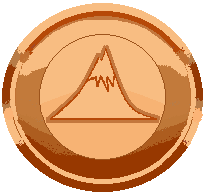
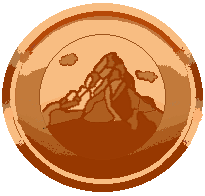
Updated graphics for some medals. Fixed timed workout audio issue. Finished foundational workout summary animation. Fixed auto scrolling on medals at home

Changed region(s): [[0.2049, 0.2143, 0.8195, 0.8265], [0.2927, 0.2755, 0.3805, 0.3367]]

diff --git a/components/WorkoutSummary.tsx b/components/WorkoutSummary.tsx
@@ -36,6 +36,7 @@ const WorkoutSummary = () => {
 
   const [progressMenu, setProgressMenu] = useState<boolean>(true)
   const [singeAnimation, setSingeAnimation] = useState<boolean>(true);
+  const [progressBarColor, setProgressBarColor] = useState<string>('yellow')
 
   const [updated, setUpdated] = useState<boolean>(false);
 
@@ -81,11 +82,10 @@ const WorkoutSummary = () => {
       setChallengeValues(await getChallengeValues(db, guidedWorkoutChallenges))
     }
     grabChallengeInfo();
-
   }, [])
 
   const progressAnimations = route.params.startMetrics.map((item, index) => {
-      const bwidth = useSharedValue((BAR_WIDTH * (item.value / item.threshold)));
+      const bwidth = useSharedValue(0);
       const animation = useAnimatedStyle(() => {
           return {
               // moves to be made
@@ -105,13 +105,14 @@ const WorkoutSummary = () => {
   }, [challengeValues])
 
   function startImageAnimation() {
-  let index = 0;
-  return setInterval(() => {
-    setProgressImage(progressImgs[index]);
-    index = Math.floor(Math.random() * ((progressImgs.length - 1) - 1))
-    if (index >= progressImgs.length) index = 0;
-  }, 50);
-}
+    let index = 0;
+    return setInterval(() => {
+      setProgressImage(progressImgs[index]);
+      index = Math.floor(Math.random() * ((progressImgs.length - 1) - 1))
+      if (index >= progressImgs.length) index = 0;
+    }, 100);
+  }
+
 
 const onSingeEnd = React.useCallback(() => {
     setSingeAnimation(false);
@@ -119,13 +120,13 @@ const onSingeEnd = React.useCallback(() => {
 
 
   function updateAnimation(index: number) {
-    let multiplier = challengeValues[index].value / challengeValues[index].threshold
-    if (challengeValues[index].value / challengeValues[index].threshold >= 1)
-      multiplier = 1;
+    let multiplier =  (challengeValues[index].value - startMetrics[index].value) / challengeValues[index].threshold
+    if (challengeValues[index].value / challengeValues[index].threshold > 1)
+      multiplier = 0;
     const p_animation = startImageAnimation();
     'worklet';
     // start all progress animations
-    progressAnimations[index].width.value = withTiming((SCREEN_WIDTH * .25) * multiplier, { duration: 3000, easing: Easing.inOut(Easing.ease) }, (finished) => {
+    progressAnimations[index].width.value = withTiming(BAR_WIDTH * multiplier, { duration: 3000, easing: Easing.inOut(Easing.ease) }, (finished) => {
       if (finished) {
         clearInterval(p_animation);
         scheduleOnRN(onSingeEnd)
@@ -228,11 +229,13 @@ const onSingeEnd = React.useCallback(() => {
                     <View key={index} style={{width: startMetrics.find(val => val.name == item.name) && startMetrics[startMetrics.findIndex(val => val.name == item.name)].value != item.value ? '25%' : 0}}>
                       {startMetrics.find(val => val.name == item.name) && startMetrics[startMetrics.findIndex(val => val.name == item.name)].value != item.value && 
                         <View style={{alignItems: 'center', borderColor: 'white', borderWidth: 3, borderRadius: 10, width: '100%', justifyContent: 'space-evenly', height: SCREEN_HEIGHT / 3}}>
-                          <Image style={{height: SCREEN_HEIGHT * .07, width: SCREEN_HEIGHT * .1, resizeMode: 'contain'}} source={item.tier != undefined ? item.tier == 0 ? require('../assets/locked.png') : medalImages[medalImages.findIndex(m => m.name == JSON.parse(item.name)[0])].items[item.tier] || require('../assets/locked.png') : item.threshold > item.value ? require('../assets/locked.png') : medalImages[medalImages.findIndex(m => m.name == item.name)].items[0] || require('../assets/locked.png')}/>
-                          <Text style={[styles.itemText, {textAlign: 'center', height: '30%'}]}>{item.tier != undefined ? item.tier == 0 ? '???' : JSON.parse(item.name)[item.tier] : item.value < item.threshold ? '???' : item.name}</Text>
+                          <Image style={{height: SCREEN_HEIGHT * .07, width: SCREEN_HEIGHT * .1, resizeMode: 'contain'}} source={item.tier != undefined ? item.tier == 0 ? require('../assets/locked.png') : medalImages[medalImages.findIndex(m => m.name == JSON.parse(item.name)[0])].items[item.tier - 1] || require('../assets/locked.png') : item.threshold > item.value ? require('../assets/locked.png') : medalImages[medalImages.findIndex(m => m.name == item.name)].items[0] || require('../assets/locked.png')}/>
+                          <Text style={[styles.itemText, {textAlign: 'center', height: '30%'}]}>{item.tier != undefined ? item.tier == 0 ? '???' : JSON.parse(item.name)[item.tier - 1] : item.value < item.threshold ? '???' : item.name}</Text>
                           <Text style={[styles.headText, {fontSize: 18, padding: 1}]}>+{item.value - startMetrics[startMetrics.findIndex(val => val.name == item.name)].value}</Text>
-                          <View style={{width: SCREEN_WIDTH * .2, backgroundColor: 'white', height: SCREEN_HEIGHT * .01, borderWidth: 1, borderColor: 'black'}}>
-                            <Animated.View style={[progressAnimations[index].animation, {backgroundColor: 'red', height: '100%', position: 'absolute', alignItems: 'flex-end'}]}>
+                          <Text style={[styles.headText, {fontSize: 12, padding: 1}]}>{Math.floor(1000 * (item.value / item.threshold))/10}%</Text>
+                          <View style={{width: SCREEN_WIDTH * .2, backgroundColor: 'white', height: SCREEN_HEIGHT * .01, borderWidth: 1, borderColor: 'black', flexDirection: 'row'}}>
+                            <View style={{backgroundColor: 'red', height: '100%', width: item.value >= item.threshold ? '100%' : (SCREEN_WIDTH * .2) * (startMetrics[startMetrics.findIndex(val => val.name == item.name)].value / item.threshold)}}/>
+                            <Animated.View style={[progressAnimations[index].animation, {backgroundColor: progressBarColor, height: '100%', alignItems: 'flex-end'}]}>
                               <Image source={progressImage} style={{height: '100%', width: BAR_WIDTH * .02, resizeMode: 'stretch', opacity: singeAnimation ? 1 : 0}}/>
                             </Animated.View>
                           </View>
@@ -242,8 +245,8 @@ const onSingeEnd = React.useCallback(() => {
                   ))}
                 </View>
               </ScrollView>
-              <View style={{width: SCREEN_WIDTH * .9, alignItems: 'center', alignSelf: 'center'}}>
-                 <TouchableOpacity style={{width: '100%'}} onPress={() => {
+              <View style={{width: '100%', alignItems: 'center', alignSelf: 'center'}}>
+                 <TouchableOpacity style={{width: '100%', alignSelf: 'center'}} onPress={() => {
                   setProgressMenu(false);
                  }}>
                   <LinearGradient colors={['red', '#390842']} style={[styles.controlButton, {backgroundColor: "red"}]}>

diff --git a/components/TimedWorkoutExecution.tsx b/components/TimedWorkoutExecution.tsx
@@ -11,7 +11,7 @@ import { getDBConnection, addRecentWorkout } from '../utilities/DefaultInfo';
 import LinearGradient from 'react-native-linear-gradient';
 import { useKeepAwake, deactivateKeepAwake } from '@sayem314/react-native-keep-awake';
 import Sound from 'react-native-sound';
-import { loadSingleBellSound, releaseBellSounds } from '../audiocontrol';
+import { loadBellSounds, releaseBellSounds } from '../audiocontrol';
 import { updateChallenge } from '../utilities/Challenges';
 
 const TimedWorkoutExecution = () => {
@@ -44,34 +44,20 @@ const elapsed = useRef(0);
 const rafId = useRef<number | null>(null);
 const durationMs = useRef(0);
 const inRest = useRef<boolean>(false);
-
-const [bellSound, setBellSound] = useState<Sound>();
+const currentSoundIndex = useRef<number>(0);
+const bellSounds = useRef<Sound[]>([]);
+// total number of bell sounds == rounds * 2 - 1 (last rest round does not take place hence -1)
 
 useEffect(() => {
     const fetchData = async () => {
-      const db = await getDBConnection();
-      const loadedSound = await loadSingleBellSound();
-      setBellSound(loadedSound);
-      loadedSound.play();
+      const sounds = await loadBellSounds((route.params.rounds * 2) - 1)
+      sounds[currentSoundIndex.current].play()
+      currentSoundIndex.current += 1;
+      bellSounds.current = sounds;
       start(workMs);
     }
     fetchData();
 }, [])
-
-const playBell = useCallback(() => {
-  if (!bellSound) return;
-  bellSound.stop();
-  releaseBellSounds([bellSound]);
-  const fetchData = async () => {
-      const db = await getDBConnection();
-      const loadedSound = await loadSingleBellSound();
-      setBellSound(loadedSound);
-      loadedSound.play();
-      start(workMs);
-  }
-  fetchData();
-  
-}, [bellSound]);
 
 useEffect(() => {
     let secondsTotal = timeRemainingMs / 1000
@@ -103,7 +89,10 @@ const loop = () => {
         if (temp != 0) {
             rounds.current = temp;
             inRest.current = true;
-            playBell();
+            if (bellSounds) {
+              bellSounds.current[currentSoundIndex.current].play();
+              currentSoundIndex.current += 1
+            }
             start(restMs);
         }
         else {
@@ -113,7 +102,10 @@ const loop = () => {
     }
     else {
         inRest.current = false;
-        playBell();
+        if (bellSounds) {
+          bellSounds.current[currentSoundIndex.current].play();
+          currentSoundIndex.current += 1
+        }
         start(workMs);
     }
     
@@ -155,6 +147,7 @@ const resume = () => {
   // use effect for ending workout and navigating to summary page
   useEffect(() => {
     if (!workoutActive) {
+      releaseBellSounds(bellSounds);
         // convert all time to miliseconds to get the elapsed time for the workout
       let totalMs = 0;
       // add total number of completed rounds to milisecond total

diff --git a/components/WorkoutCustomization.tsx b/components/WorkoutCustomization.tsx
@@ -73,6 +73,8 @@ const WorkoutCustomization = () => {
 
   const [adv, setAdv] = useState<boolean>(false);
 
+  const [selectAllText, setSelectAllText] = useState<String>("De-select All");
+
   const userInputs: inputs = {
     comboCount: comboCount,
     throwCount: throwCount,
@@ -118,6 +120,14 @@ const WorkoutCustomization = () => {
       setStrikesActive(temp);
     }, [strikes])
 
+    useEffect(() => {
+      if (!strikesActive.includes(false)) {
+        setSelectAllText('De-select All');
+      }
+      else
+        setSelectAllText('Select All');
+    }, [strikesActive])
+
     const options = [ require("../assets/opt.png"), require("../assets/opt_selected.png")];
     const audio = [require('../assets/no-audio.png'), require('../assets/audio.png'),]
 
@@ -138,13 +148,16 @@ const WorkoutCustomization = () => {
                 <Text style={[styles.bodyText, {textAlign: 'center', marginBottom: '1%', fontSize: 20}]}>Adjust which strikes appear in your workout</Text>
                 <View style={{flexDirection: 'row', width: '100%', marginTop: '5%', marginBottom: '1%', alignItems: 'center'}}>
                   <TouchableOpacity onPress={() => {
-                    setStrikesActive(new Array(strikes.length).fill(true))
+                    if (strikesActive.includes(false)) 
+                      setStrikesActive(new Array(strikes.length).fill(true))
+                    else
+                      setStrikesActive(new Array(strikes.length).fill(false))
                   }}>
                     <View>
                       <Image style={{height: 35, width: 35, marginStart: '1%', resizeMode: 'contain'}} source={strikesActive.includes(false) ? options[0] : options[1]}/>
                     </View>
                   </TouchableOpacity>
-                  <Text style={{fontWeight: 'bold', padding: '1%', color: 'white'}}>Select all</Text>
+                  <Text style={{fontWeight: 'bold', padding: '1%', color: 'white'}}>{selectAllText}</Text>
                 </View>
                 <ScrollView style={{borderStyle: 'solid', borderColor: 'white', borderWidth: 1}}>
                   {strikes.map((item, index) => (

diff --git a/utilities/SnapCarousel.tsx b/utilities/SnapCarousel.tsx
@@ -8,9 +8,9 @@ import {
   FlatList,
   Text,
   StyleSheet,
-  Dimensions,
   TouchableOpacity,
   Image,
+  Dimensions,
 } from 'react-native';
 import { getDBConnection, getStrikeSets, getFavorites, DataSet } from '../utilities/DefaultInfo';
 import LinearGradient from 'react-native-linear-gradient';
@@ -26,6 +26,7 @@ type caroselProps = {
 }
 
 const SwipeSnapSelector = ( {setStrikeSet}: caroselProps ) => {
+  const width = Dimensions.get('window').width;
   const fav: DataSet = {id: -999, name: "Create workout using your favorited combos", strikes:"", locked: 1}
   const defaultFavorite: DataSet[] = [fav];
   const [selectedId, setSelectedId] = useState<number | null>(null);
@@ -69,7 +70,7 @@ const SwipeSnapSelector = ( {setStrikeSet}: caroselProps ) => {
   function favoriteIndicator() {
     return(
       <View style={{borderStyle: "solid", borderWidth: 2, borderColor: "black", borderRadius: 5, backgroundColor: "#3f48cc", marginTop: "5%"}}>
-        <Image source={require("../assets/favorited.png")} style={{width: 40,  height: 40, resizeMode: 'contain', margin: "7%"}}/>
+        <Image source={require("../assets/favorited.png")} style={{width: width/3,  height: width/3, resizeMode: 'contain', margin: "7%"}}/>
       </View>
     )
   }
@@ -124,7 +125,7 @@ const SwipeSnapSelector = ( {setStrikeSet}: caroselProps ) => {
               <LinearGradient colors={['white', 'black']} style={[styles.card, isSelected && styles.cardSelected]}>
                 {/* Set up custom images for default strike sets */}
                 <Text style={styles.cardText}>{item.name}</Text>
-                {(item.id <= 3 && item.id >= 0) ? <Image source={getGByName(item.name)} style={{width: CARD_WIDTH - 100,  height: CARD_WIDTH - 100, resizeMode: 'contain', margin: "7%"}}/> : null}
+                {(item.id <= 3 && item.id >= 0) ? <Image source={getGByName(item.name)} style={{width: CARD_WIDTH /2,  height: CARD_WIDTH/2, resizeMode: 'contain', margin: "7%"}}/> : null}
                 {item.id === -999 ? favoriteIndicator() : null}
               </LinearGradient>
             </TouchableOpacity>

diff --git a/utilities/BuildWorkout.tsx b/utilities/BuildWorkout.tsx
@@ -375,7 +375,6 @@ export function BuildWorkout(props: {
         //en-us-x-sfg-local
         Tts.setDefaultVoice('en-us-x-iom-local')
         let v = Tts.voices();
-        console.log(v);
         if (timePerStrike >= 1250)
           Tts.setDefaultRate(0.5);
         else {
@@ -408,7 +407,10 @@ export function BuildWorkout(props: {
     useEffect(() => {
       if (tts) {
         if (activeStates.includes(true)) {
-          Tts.speak(currentCombo[activeStates.findIndex((item) => item == true)]);
+          let temp = currentCombo[activeStates.findIndex((item) => item == true)]
+          // correct pronounciation of 'lead'
+          temp = temp.replace('lead', 'leed');
+          Tts.speak(temp);
         }
       }
     }, [activeStates])
@@ -435,8 +437,8 @@ export function BuildWorkout(props: {
             // All throws of current combo done
             setCurrentComboIndexX(prev => {
                 const nextIndex = prev + 1;
+                setCompletedCount(nextIndex)
                 if (tts!) {
-                  setCompletedCount(nextIndex)
                   releaseStrikeSounds(strikeSounds);
                 }
                 if (nextIndex >= combos.length) {
@@ -498,6 +500,7 @@ export function BuildWorkout(props: {
                 })();
             }
             // set workout active to false to initiate navigation to workout summary
+            console.log(completedCount)
             grabCombos(combos, favIndex, completedCount)
             setRoundChange(!roundChange);
             setWorkoutActive(false);

diff --git a/components/Home.tsx b/components/Home.tsx
@@ -91,12 +91,20 @@ const Home = () => {
   const medalScrollRef = useRef<ScrollView>(null);
   const isUserScrolling = useRef(false);
   const scrollX = useRef(0);
+
+  const [challenges, setChallenges] = useState<any[]>([])
+
   useEffect(() => {
     const containerWidth = challenges.length * 130
-
+    let pivotMultiple = (width/3);
+    if (challenges.length > 0) {
     const interval = setInterval(() => {
       if (isUserScrolling.current) return;
-      scrollX.current += width / 3; // ~ medal width + margin
+      if ((scrollX.current/pivotMultiple) % 1 != 0) {
+        let anchor = Math.floor(scrollX.current / pivotMultiple);
+        scrollX.current = anchor * pivotMultiple
+      }
+      scrollX.current += pivotMultiple; 
       if (scrollX.current > containerWidth) {
         scrollX.current = 0;
       }
@@ -105,9 +113,10 @@ const Home = () => {
         animated: true,
       });
     }, 5000);
+    return () => clearInterval(interval);
+  }
 
-  return () => clearInterval(interval);
-}, []);
+}, [challenges.length]);
 
   // animation values
   const { width } = useWindowDimensions();
@@ -294,8 +303,6 @@ const stopStrikeAnimation = () => {
     }
     return total;
   }
-
-  const [challenges, setChallenges] = useState<any[]>([])
 
   useFocusEffect(
     useCallback(() => {

diff --git a/audiocontrol.js b/audiocontrol.js
@@ -60,6 +60,20 @@ export function loadSingleBellSound() {
   });
 }
 
+// Load multiple sounds (returns Promise<Sound[]>)
+export async function loadBellSounds(size) {
+  const sounds = [];
+  for (let i = 0; i < size; i++) {
+    try {
+      const sound = await loadSingleBellSound();
+      sounds.push(sound);
+    } catch (e) {
+      console.error(`Error loading sound ${i}:`, e);
+    }
+  }
+  return sounds;
+}
+
 // Release all sound instances
 export function releaseBellSounds(arr) {
   if (!arr || !Array.isArray(arr)) return;

diff --git a/utilities/Challenges.ts b/utilities/Challenges.ts
@@ -25,7 +25,8 @@ export const guidedWorkoutChallenges = [
   JSON.stringify(['Two-Piece Starter',"Can't guard em both",'A PAIR of knuckle sandwiches','Kung Fu Panda']),
   'Legs of Steel',
   'Ultra Instinct',
-  'I fear not the man who has practiced 1000 strikes'
+  'I fear not the man who has practiced 1000 strikes',
+  'I fear the man who has practiced one strike 1000 times'
 ]
 
 // function for getting all values of given challenges for end of workout summary animations and such
